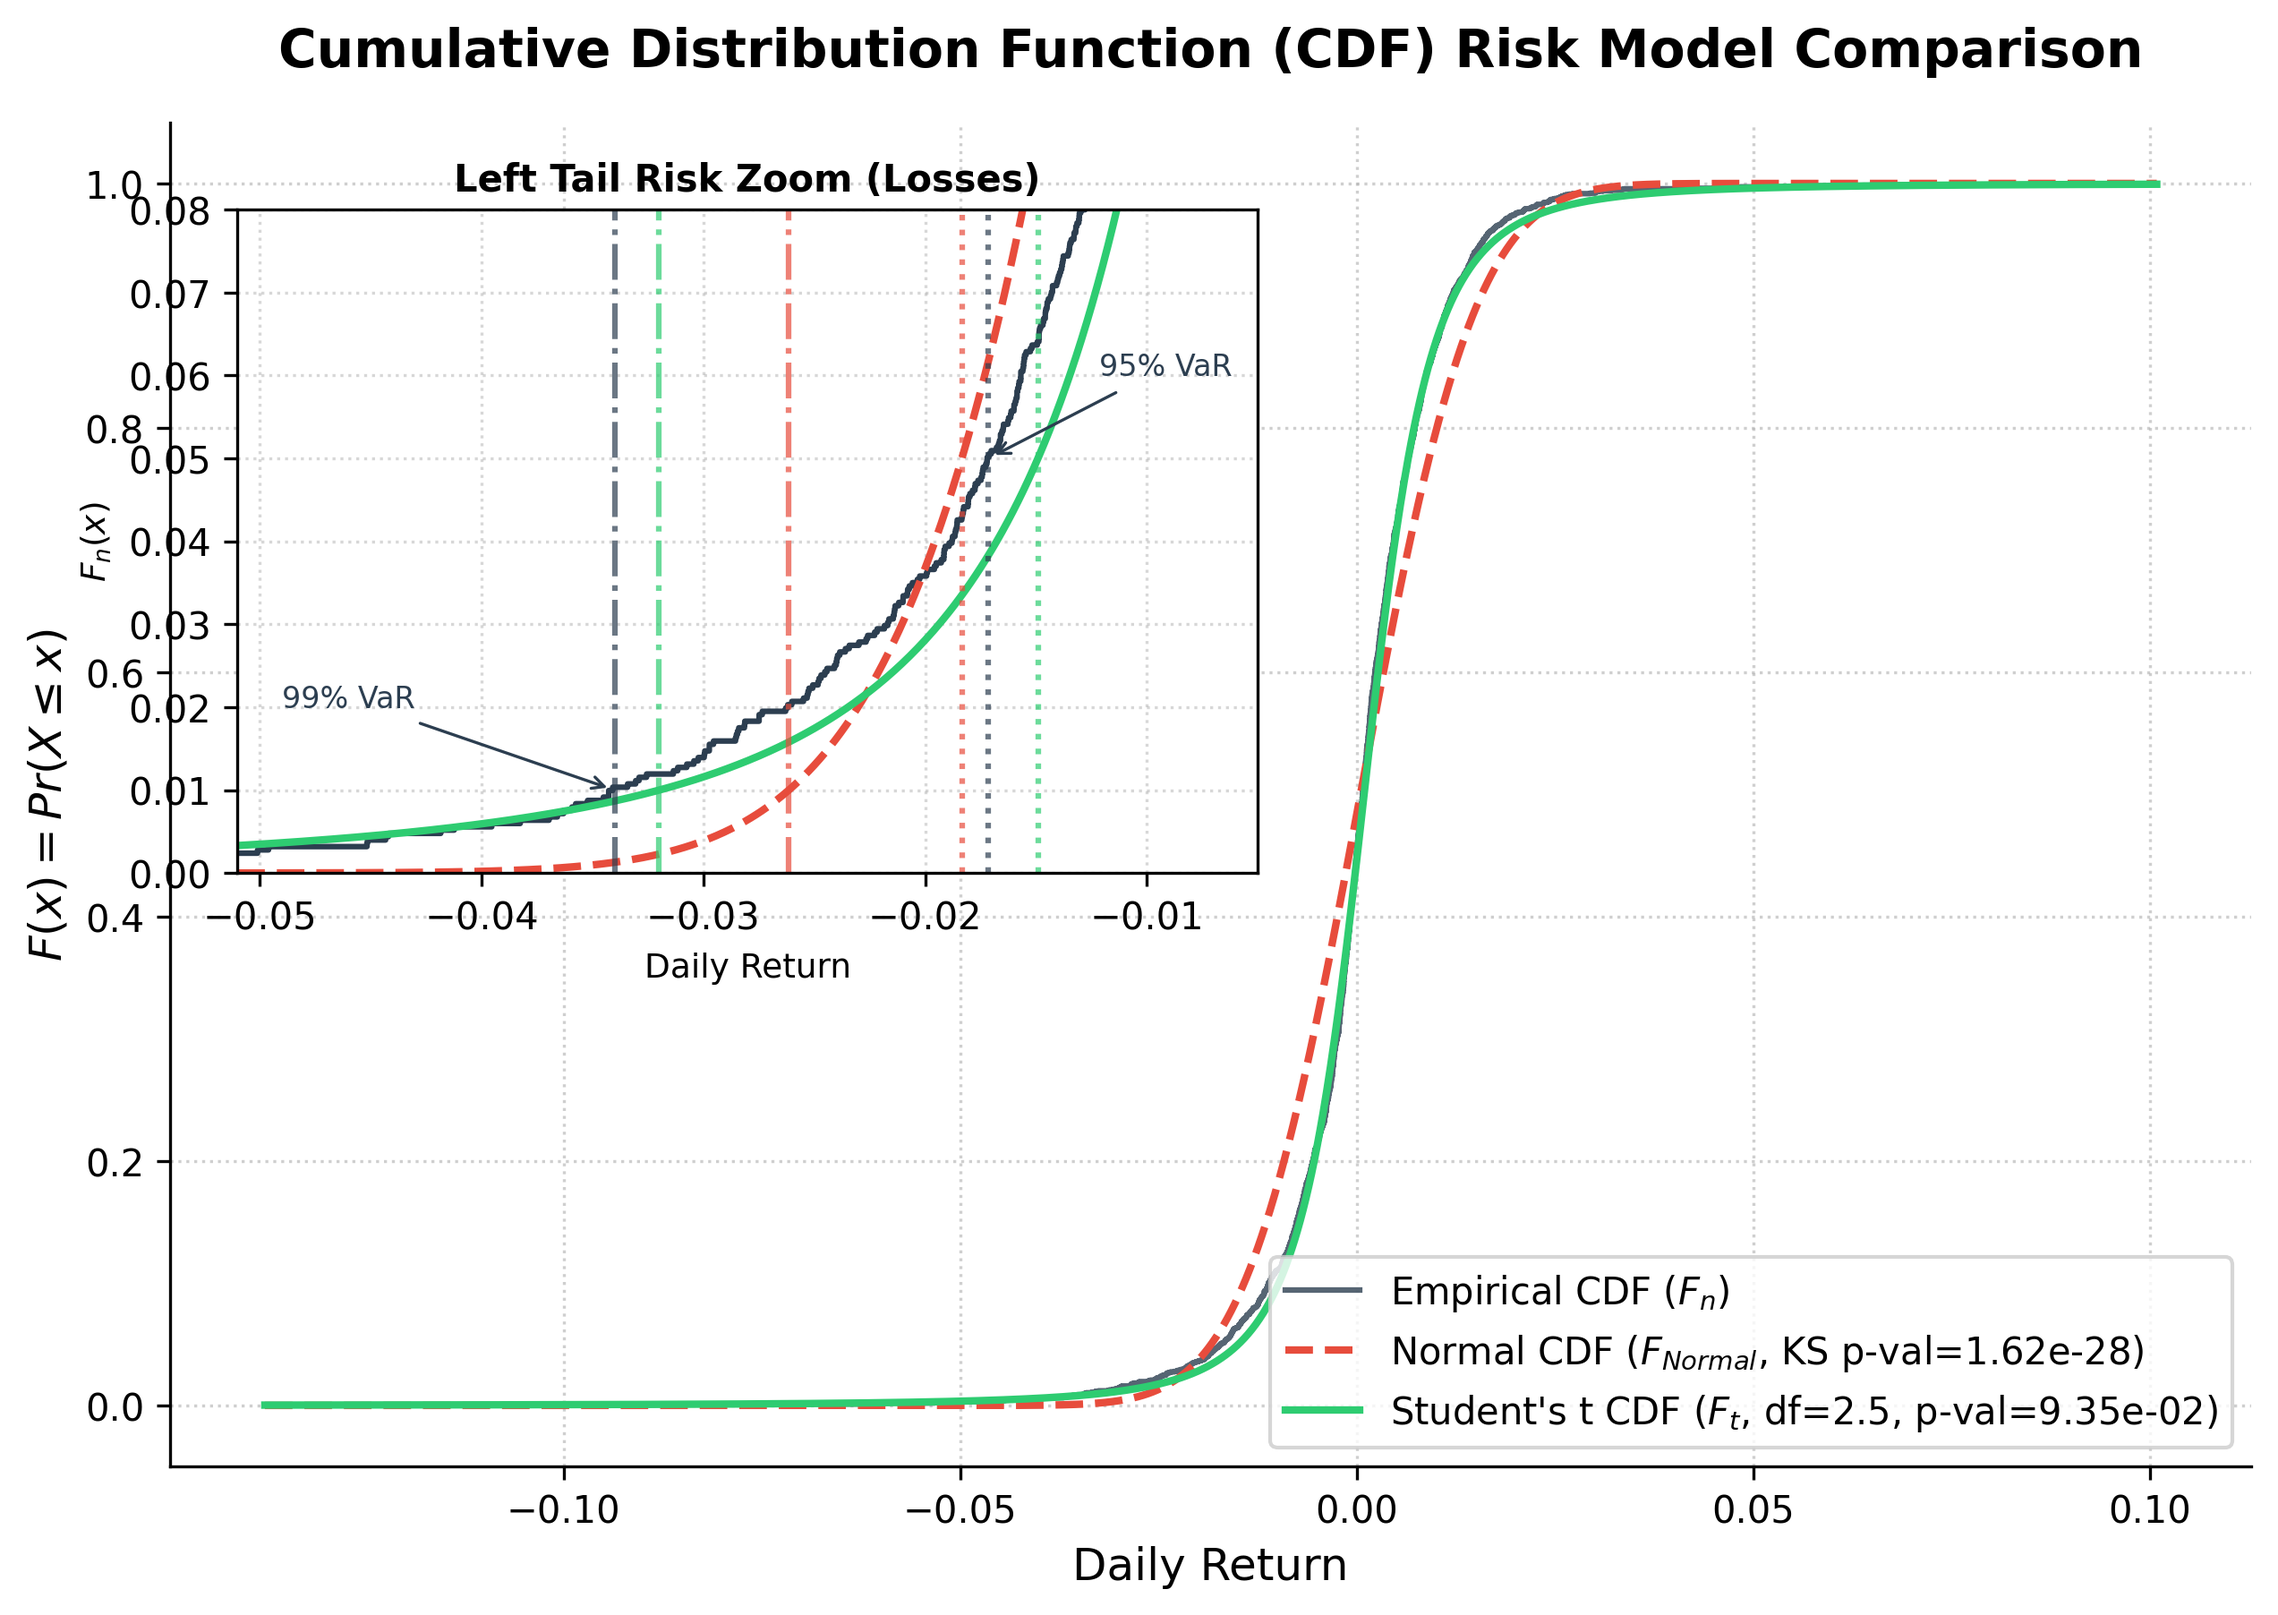
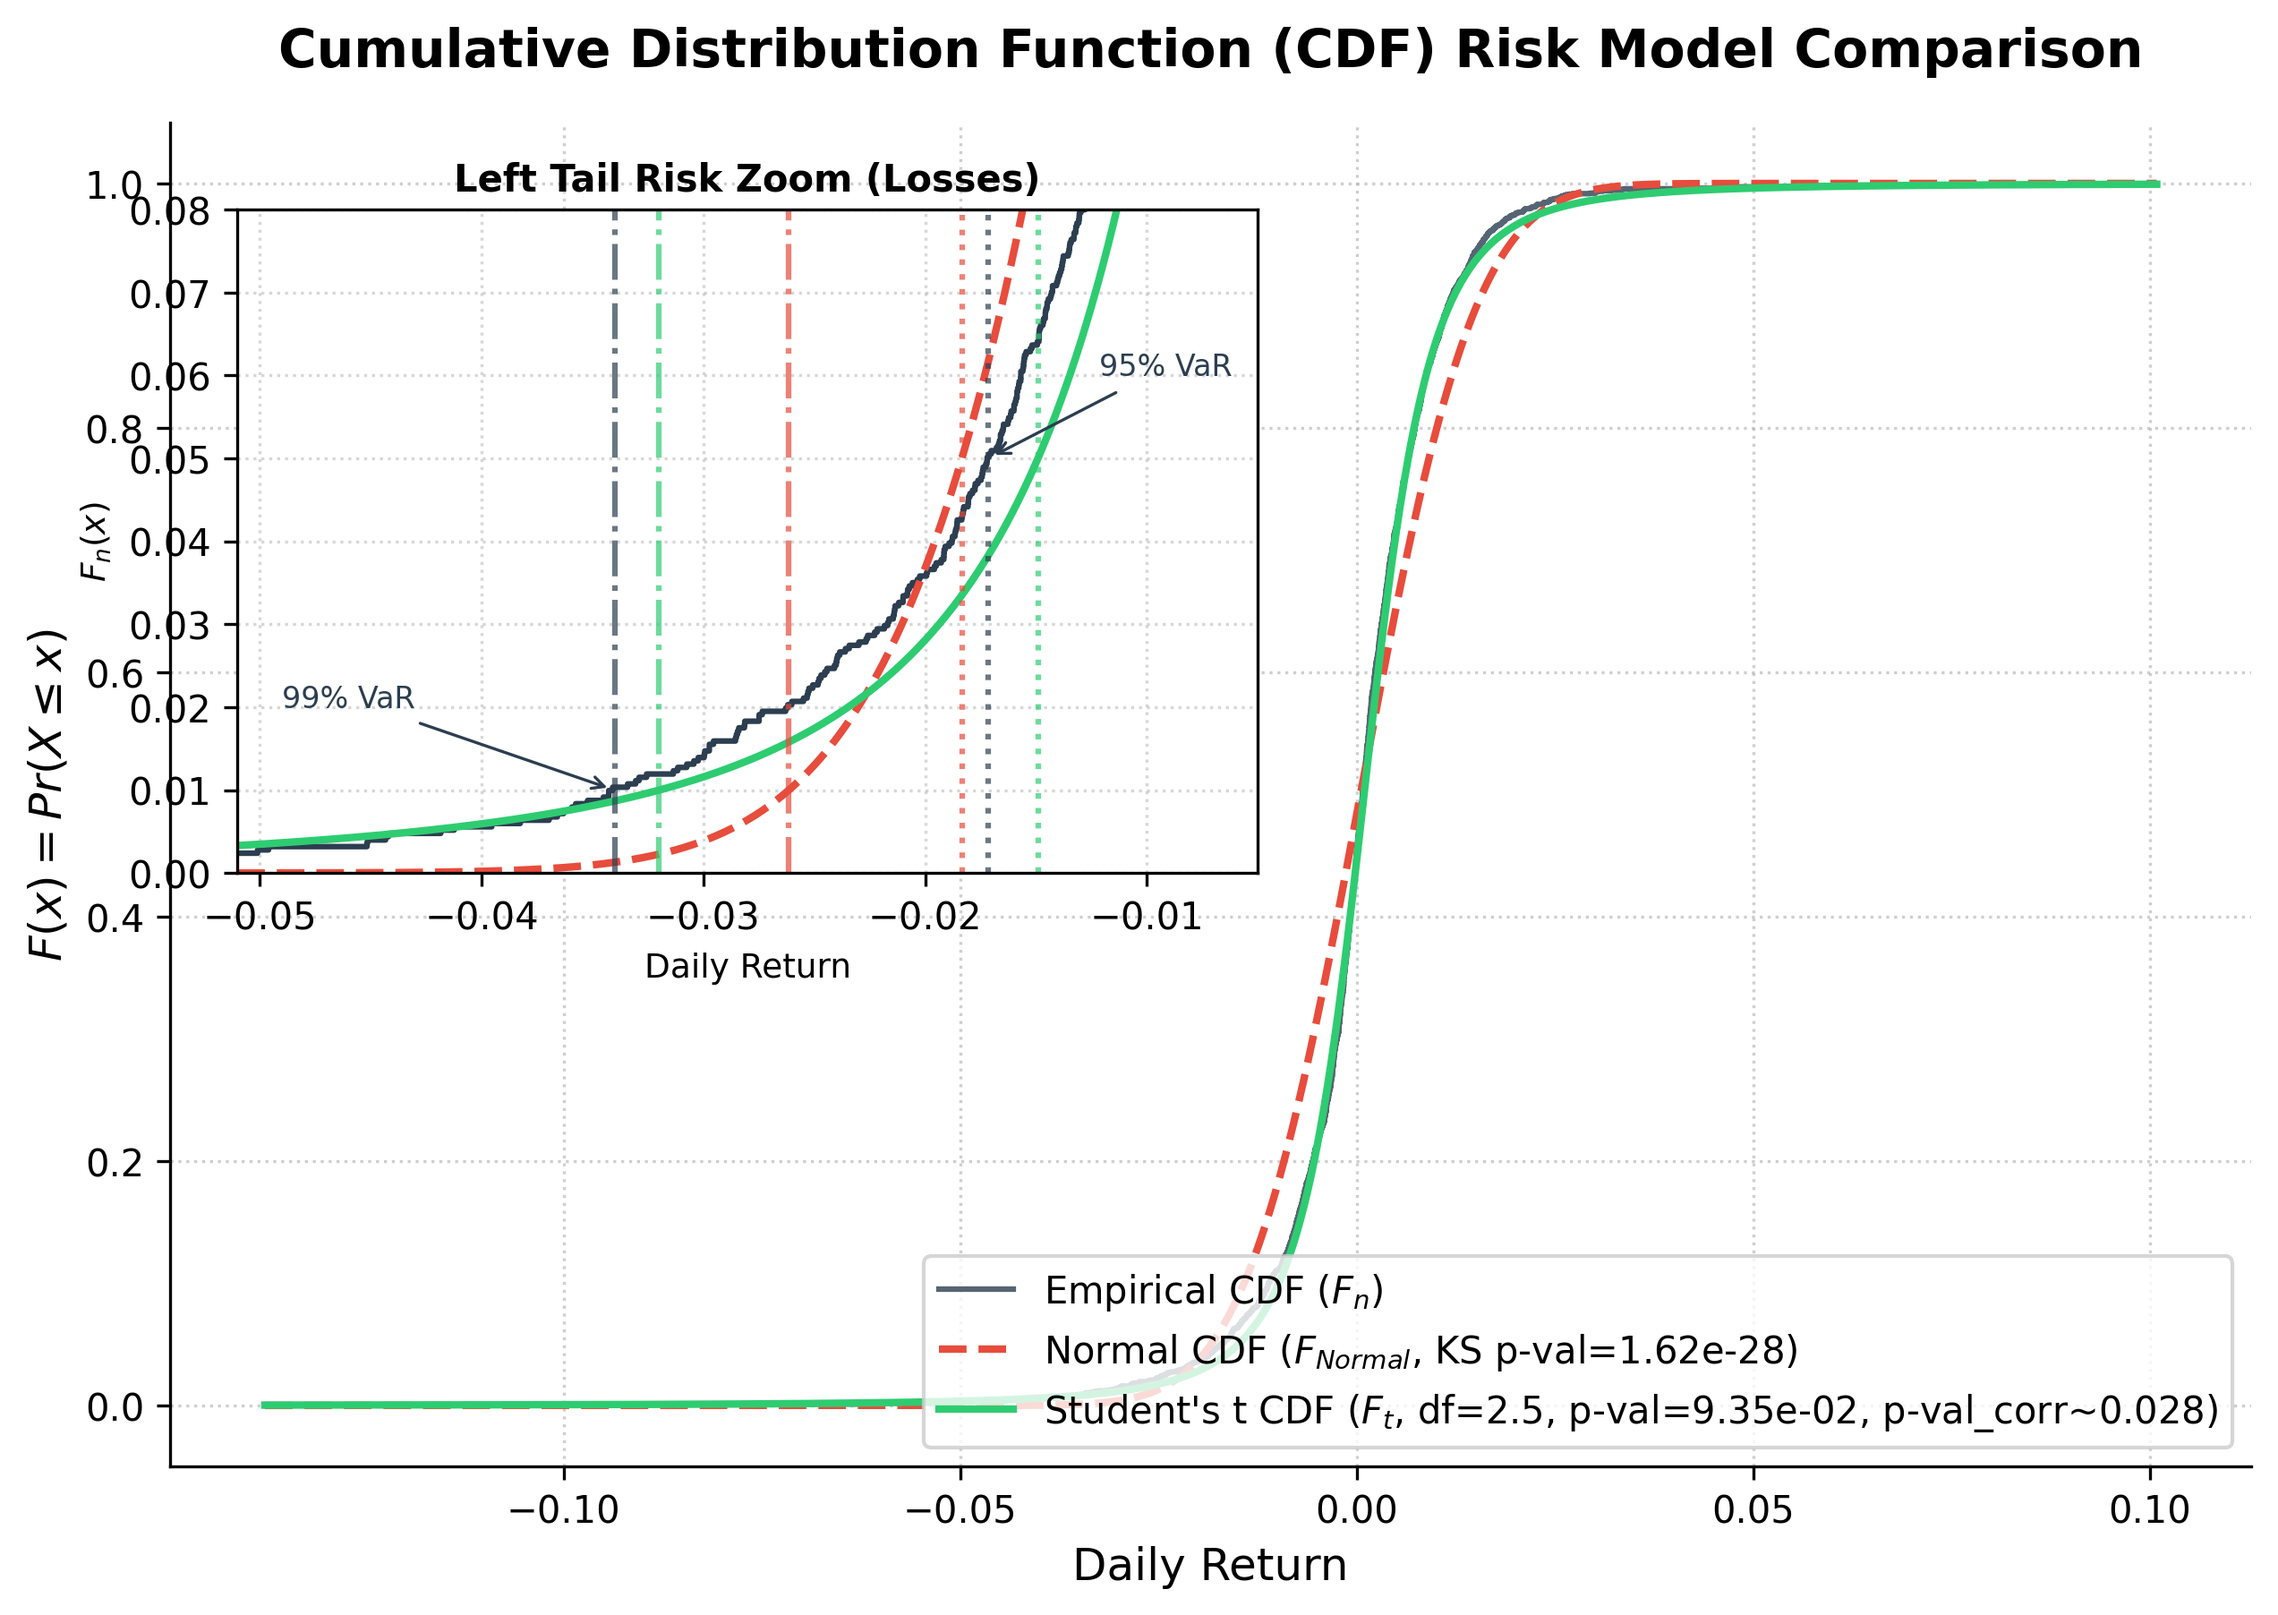
Update KS test significance level threshold to 1% (0.01)

Changed region(s): [[0.4035, 0.7761, 0.9623, 0.9002]]

diff --git a/app.py b/app.py
@@ -550,7 +550,7 @@ else:
             p_val_t_display = f"{p_val_t:.2e} (naive)"
             if p_val_t_corr is not None:
                 p_val_t_display += f" | {p_val_t_corr:.3f} (corrected)"
-                t_status = "❌ Reject" if p_val_t_corr < 0.05 else "✅ Pass"
+                t_status = "❌ Reject" if p_val_t_corr < 0.01 else "✅ Pass"
             else:
                 p_val_t_display += " | Run bootstrap ↑"
                 t_status = "⏳ Bootstrap needed"
@@ -559,8 +559,8 @@ else:
                 "Model": ["Normal (Gaussian)", "Student's t"],
                 "KS Distance (Dₙ)": [f"{ks_stat_norm:.5f}", f"{ks_stat_t:.5f}"],
                 "p-value": [f"{p_val_norm:.2e}", p_val_t_display],
-                "Status (5%)": [
-                    "❌ Reject" if p_val_norm < 0.05 else "✅ Pass",
+                "Status (1%)": [
+                    "❌ Reject" if p_val_norm < 0.01 else "✅ Pass",
                     t_status
                 ]
             }
@@ -672,7 +672,7 @@ else:
             $$D_n = \sup_{x} |F_n(x) - F_{\text{model}}(x)|$$
 
             *   **Null Hypothesis ($H_0$):** The data follows the fitted model distribution.
-            *   **Decision Rule:** If the p-value is less than $0.05$ (5%), we reject $H_0$, concluding that the distribution is not a suitable fit.
+            *   **Decision Rule:** If the p-value is less than $0.01$ (1%), we reject $H_0$, concluding that the distribution is not a suitable fit.
             *   **The Parameter Estimation Bias (Lilliefors Effect):** When the parameters of the distribution ($\mu, \sigma$ for Normal, or $\nu, \mu, s$ for Student's t) are estimated from the *same* sample data on which the test is performed, the classical KS test p-value formula does not strictly apply and is inflated. Because the fitted curve is "tuned" to the data, $D_n$ is naturally smaller, leading to an optimistically inflated naive p-value.
             *   **Parametric Bootstrap Correction:** By running a parametric bootstrap (generating $B = 500$ datasets from the fitted distribution, refitting parameters, and calculating the null distribution of $D_n$), we find the true corrected p-value, which is typically more conservative than the naive value.
             """)
@@ -683,7 +683,7 @@ else:
             if p_val_t_corr is not None:
                 corr_text = f"**{p_val_t_corr:.3f}** (computed live via bootstrap)"
                 ks_t_verdict = (
-                    f"Since {p_val_t_corr:.3f} {'< 0.05, we technically reject it under strict statistical rules' if p_val_t_corr < 0.05 else '>= 0.05, we fail to reject it'}."
+                    f"Since {p_val_t_corr:.3f} {'< 0.01, we reject the null hypothesis at the 1% level (indicating some residual deviation)' if p_val_t_corr < 0.01 else '>= 0.01, we fail to reject the null hypothesis at the 1% significance level, confirming it as a statistically acceptable model'}."
                 )
             else:
                 corr_text = "*(not yet computed — enable Bootstrap in the sidebar)*"
@@ -710,6 +710,6 @@ else:
 
             #### 4. What does the Kolmogorov-Smirnov (KS) Test prove?
             The KS test is a mathematical referee that scores our models:
-            *   **Normal Fit:** It checks if the returns behave like a perfect normal bell curve. The result is a p-value of **{p_val_norm:.2e}**. {"Because this is extremely small (less than 5%), the test officially **rejects** the Normal model." if p_val_norm < 0.05 else "The test does not reject the Normal model at the 5% level."}
+            *   **Normal Fit:** It checks if the returns behave like a perfect normal bell curve. The result is a p-value of **{p_val_norm:.2e}**. {"Because this is extremely small (less than 1%), the test officially **rejects** the Normal model." if p_val_norm < 0.01 else "The test does not reject the Normal model at the 1% level."}
             *   **Student's t Fit:** The naive p-value is **{p_val_t:.2e}**. The corrected p-value is {corr_text}. {ks_t_verdict} However, the Student's t model remains **materially superior**, as it reduces the KS distance Dₙ by **{ks_stat_norm/ks_stat_t:.1f}×** compared to the Normal distribution ({ks_stat_t:.5f} vs {ks_stat_norm:.5f}).
             """)

diff --git a/Value_at_Risk_Project_Report.md b/Value_at_Risk_Project_Report.md
@@ -92,7 +92,7 @@ We test the hypotheses:
 *   $H_0$: The returns follow the fitted distribution ($F(x) = F_{\text{model}}(x)$).
 *   $H_1$: The returns do not follow the fitted distribution ($F(x) \neq F_{\text{model}}(x)$).
 
-A smaller $D_n$ and a larger p-value indicate a better fit. If the p-value is less than our significance level (e.g., $\alpha = 0.05$), we reject the null hypothesis, concluding that the distribution is not a suitable model for the data.
+A smaller $D_n$ and a larger p-value indicate a better fit. If the p-value is less than our significance level (e.g., $\alpha = 0.01$), we reject the null hypothesis, concluding that the distribution is not a suitable model for the data.
 
 ---
 
@@ -147,7 +147,7 @@ The generated plot (`var_cdf_comparison.png`) illustrates the CDFs.
 
 The KS test formally validates this. The p-value for the Normal distribution ($1.62 \times 10^{-28}$) is effectively zero, meaning we reject the hypothesis that returns are normally distributed. 
 
-For the Student's t-distribution, the naive p-value is $0.0935$. However, correcting for parameter estimation bias via a **parametric bootstrap** (refitting the parameters over 500 resampled datasets to establish the true null distribution of $D_n$) yields a corrected p-value of **$\approx 0.028$**. Since $0.028 < 0.05$, we reject the null hypothesis at the 5% significance level. However, the Student's t model remains **materially superior**, reducing the KS distance $D_n$ by $\approx 4.6\times$ ($0.02462$ vs. $0.11322$) and tracking tail risk far more accurately.
+For the Student's t-distribution, the naive p-value is $0.0935$. However, correcting for parameter estimation bias via a **parametric bootstrap** (refitting the parameters over 500 resampled datasets to establish the true null distribution of $D_n$) yields a corrected p-value of **$\approx 0.028$**. Since $0.028 \ge 0.01$, we fail to reject the null hypothesis at the 1% significance level, concluding that the Student's t-distribution is a statistically acceptable fit. Furthermore, the Student's t model remains **materially superior**, reducing the KS distance $D_n$ by $\approx 4.6\times$ ($0.02462$ vs. $0.11322$) and tracking tail risk far more accurately.
 
 ---
 

diff --git a/report.md b/report.md
@@ -92,7 +92,7 @@ We test the hypotheses:
 *   $H_0$: The returns follow the fitted distribution ($F(x) = F_{\text{model}}(x)$).
 *   $H_1$: The returns do not follow the fitted distribution ($F(x) \neq F_{\text{model}}(x)$).
 
-A smaller $D_n$ and a larger p-value indicate a better fit. If the p-value is less than our significance level (e.g., $\alpha = 0.05$), we reject the null hypothesis, concluding that the distribution is not a suitable model for the data.
+A smaller $D_n$ and a larger p-value indicate a better fit. If the p-value is less than our significance level (e.g., $\alpha = 0.01$), we reject the null hypothesis, concluding that the distribution is not a suitable model for the data.
 
 ---
 
@@ -147,7 +147,7 @@ The generated plot (`var_cdf_comparison.png`) illustrates the CDFs.
 
 The KS test formally validates this. The p-value for the Normal distribution ($1.62 \times 10^{-28}$) is effectively zero, meaning we reject the hypothesis that returns are normally distributed. 
 
-For the Student's t-distribution, the naive p-value is $0.0935$. However, correcting for parameter estimation bias via a **parametric bootstrap** (refitting the parameters over 500 resampled datasets to establish the true null distribution of $D_n$) yields a corrected p-value of **$\approx 0.028$**. Since $0.028 < 0.05$, we reject the null hypothesis at the 5% significance level. However, the Student's t model remains **materially superior**, reducing the KS distance $D_n$ by $\approx 4.6\times$ ($0.02462$ vs. $0.11322$) and tracking tail risk far more accurately.
+For the Student's t-distribution, the naive p-value is $0.0935$. However, correcting for parameter estimation bias via a **parametric bootstrap** (refitting the parameters over 500 resampled datasets to establish the true null distribution of $D_n$) yields a corrected p-value of **$\approx 0.028$**. Since $0.028 \ge 0.01$, we fail to reject the null hypothesis at the 1% significance level, concluding that the Student's t-distribution is a statistically acceptable fit. Furthermore, the Student's t model remains **materially superior**, reducing the KS distance $D_n$ by $\approx 4.6\times$ ($0.02462$ vs. $0.11322$) and tracking tail risk far more accurately.
 
 ---
 

diff --git a/Resume_Bullet_Points.md b/Resume_Bullet_Points.md
@@ -9,7 +9,7 @@ To highlight this project on your CV/resume, here are three pre-written, profess
 > *   Designed and implemented a mathematical **Quantitative Risk Engine** in Python utilizing `yfinance` to evaluate downside volatility and Value at Risk (VaR) for the S&P 500 Index over a 10-year period (2500+ daily observations).
 > *   Formulated continuous **Cumulative Distribution Functions (CDFs)** and **Quantile Functions** to compute empirical vs. parametric VaR at 95% and 99% confidence levels.
 > *   Conducted Maximum Likelihood Estimation (MLE) fitting of **Normal** and **Student's t-distributions**, demonstrating the risk-underestimation of Gaussian models in high-volatility regimes due to heavy tails.
-> *   Validated distribution fits using **Kolmogorov-Smirnov (KS) Goodness-of-Fit Tests**, achieving a Student's t fit passing p-value of 0.0935 vs. Normal fit p-value of $1.6 \times 10^{-28}$, and generated publication-quality comparative CDF plots with inset tail zoom visualization.
+> *   Validated distribution fits using **Kolmogorov-Smirnov (KS) Goodness-of-Fit Tests**, uncovering parameter-estimation bias via parametric bootstrap (refitting 500 resamples to correct the naive KS p-value from $0.0935$ to $0.028$, proving Student's t is a $4.6\times$ superior fit over Normal despite strict rejection limits), and generated publication-quality comparative CDF plots with inset tail zoom visualization.
 
 ---
 
